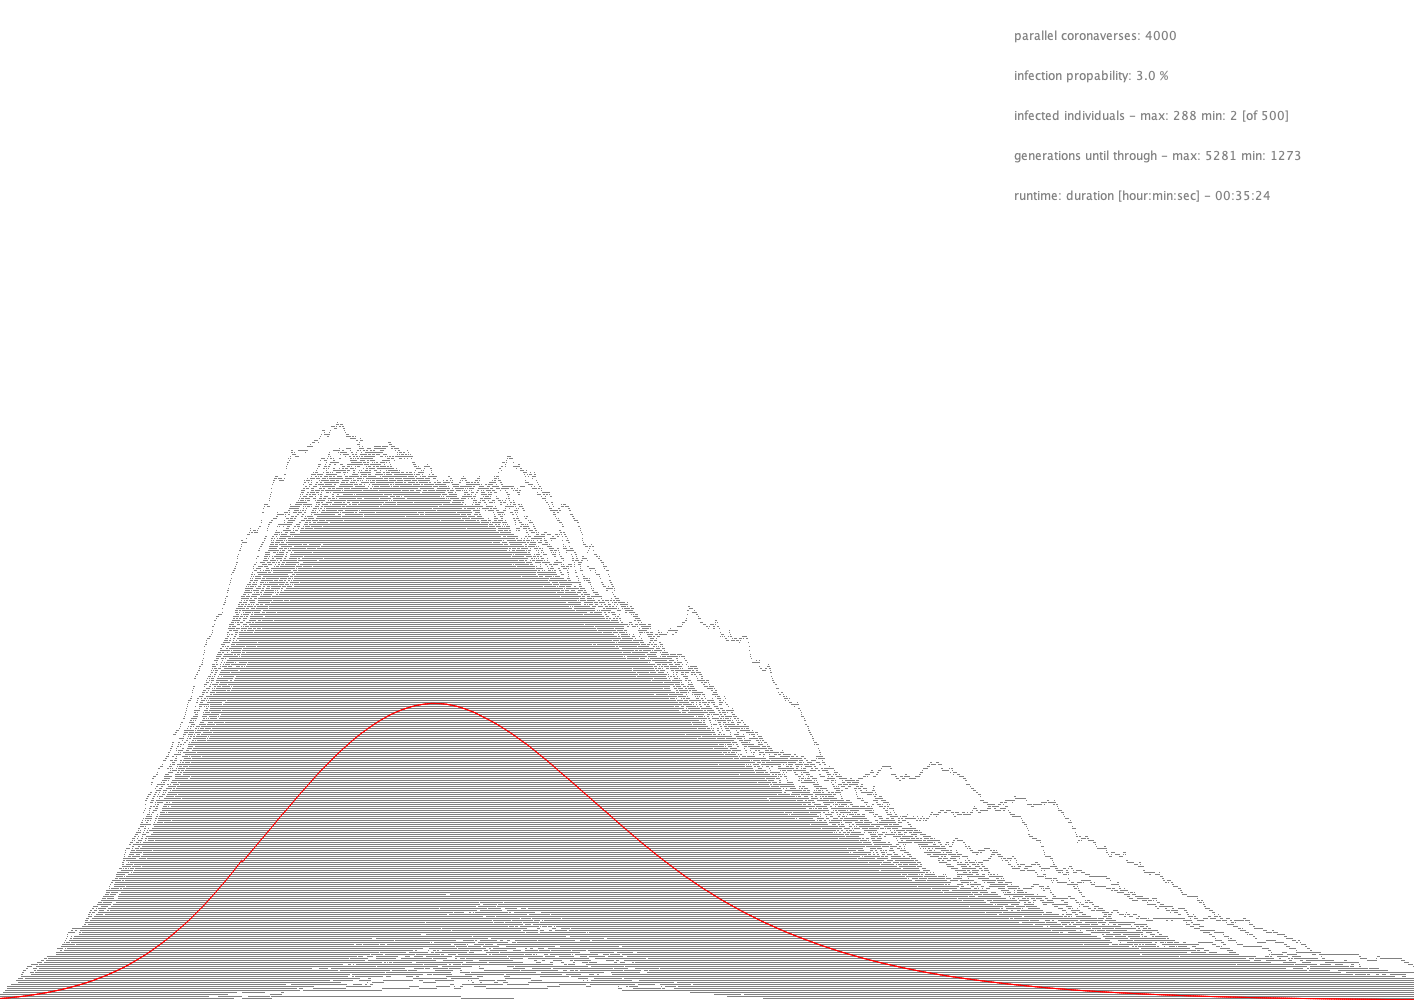
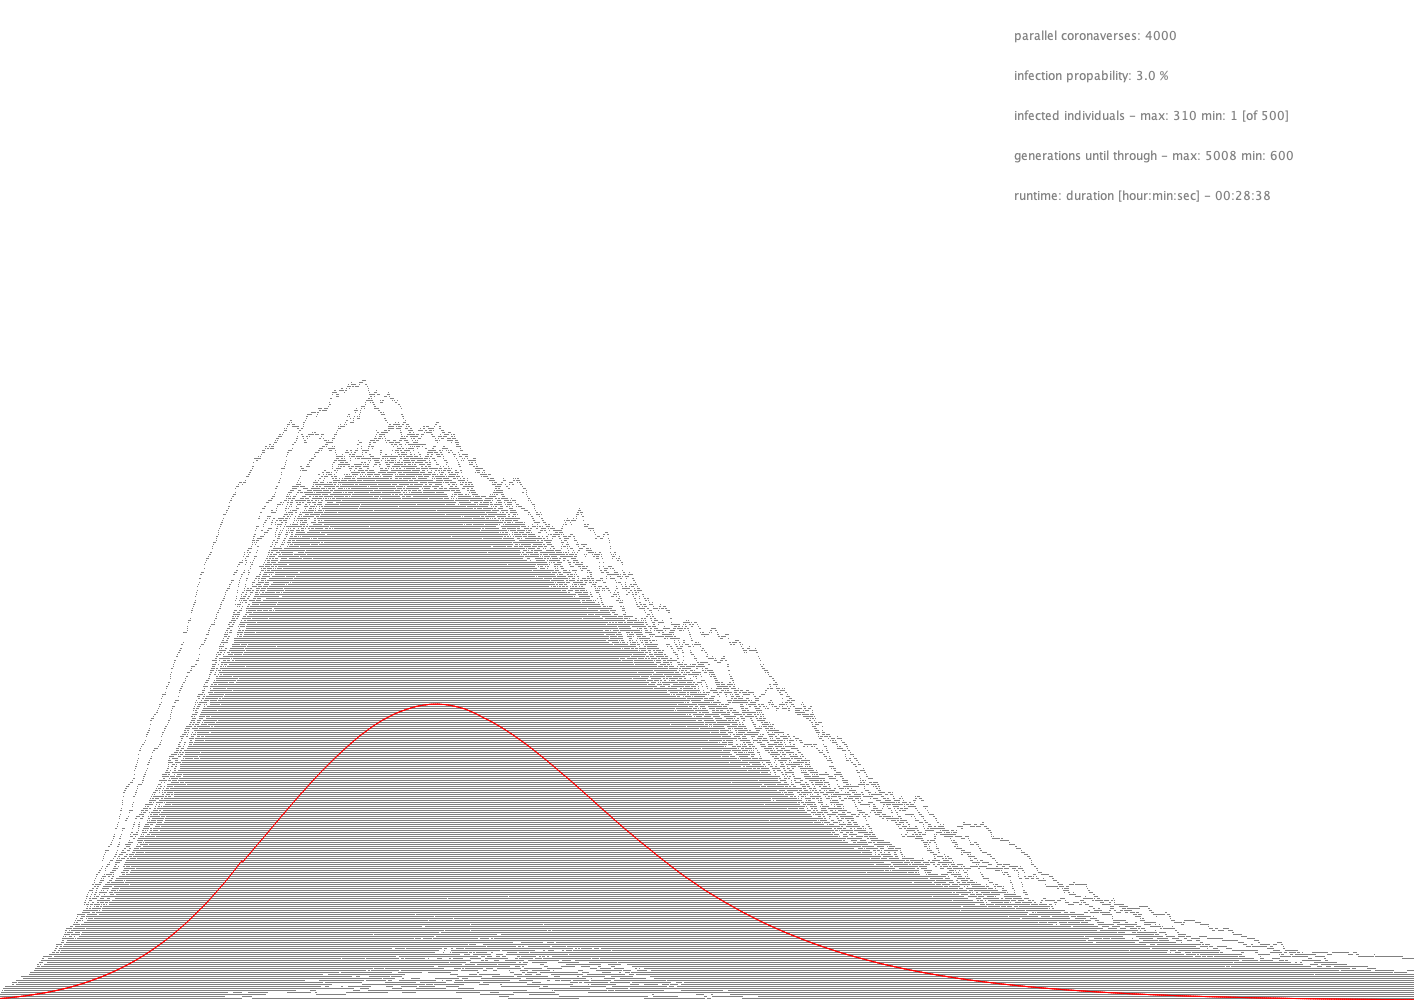
bug fixing

diff --git a/src/CoronaWorld.java b/src/CoronaWorld.java
@@ -9,6 +9,7 @@ import java.util.ArrayList;
 
 public class CoronaWorld extends JPanel implements IRunner {
 
+
     private ArrayList<Individual> individuals = new ArrayList();
 
     public ArrayList<Distribution> getDistributions() {
@@ -22,17 +23,15 @@ public class CoronaWorld extends JPanel implements IRunner {
     private long running = 0;
     private Thread thread;
     private int generation = 0;
-    private long delay = 0;
     private boolean active = false;
-    private double worldSize = 160;
-    private double delta = worldSize * 0.3;
-    private double delta_2 = delta / 2.0;
-    private double infectionPropability = 1.0;
+    private final double worldSize;
+    private final double infectionPropability;
     private int maxInfected = 0;
 
     /// constructor
-    public CoronaWorld(CoronaPlayGround cpg, double p) {
+    public CoronaWorld(CoronaPlayGround cpg, double ws, double p) {
 
+        worldSize = ws;
         infectionPropability = p;
         coronaPlayGround = cpg;
         setFocusable(true);
@@ -337,14 +336,11 @@ public class CoronaWorld extends JPanel implements IRunner {
         generation++;
         for (Individual ind : individuals) {
 
-//            double dx = Math.random() * delta - delta_2;
-//            double dy = Math.random() * delta - delta_2;
+            double dx = Math.random() * CoronaPlayGround.delta - CoronaPlayGround.delta_2;
+            double dy = Math.random() * CoronaPlayGround.delta - CoronaPlayGround.delta_2;
 
-            double dx = CoronaPlayGround.getNextRandom() * delta - delta_2;
-            double dy = CoronaPlayGround.getNextRandom() * delta - delta_2;
-
-            ind.box.x += dx;
-            ind.box.y += dy;
+            ind.box.x += dx;//CoronaPlayGround.getNextRandom();
+            ind.box.y += dy;//CoronaPlayGround.getNextRandom();
 
             if (ind.box.x > worldSize) {
                 ind.box.x = 0;
@@ -367,6 +363,8 @@ public class CoronaWorld extends JPanel implements IRunner {
             Individual ind1 = individuals.get(i);
             for (int j = i + 1; j < individuals.size(); j++) {
                 Individual ind2 = individuals.get(j);
+                if (ind2.isImmune()) continue;
+                if (!ind1.isInfected()) continue;
                 infect(ind1, ind2);
             }
         }
@@ -380,12 +378,6 @@ public class CoronaWorld extends JPanel implements IRunner {
 
     private void infect(Individual ind1, Individual ind2) {
 
-        if (ind2.isImmune()) {
-            return;
-        }
-        if (!ind1.isInfected()) {
-            return;
-        }
         if (!ind1.box.contains(ind2.box.x, ind2.box.y)) {
             return;
         }
@@ -393,10 +385,6 @@ public class CoronaWorld extends JPanel implements IRunner {
             return;
         }
         ind2.incInfectedTime();
-    }
-
-    public void setWorldSize(double ws) {
-        worldSize = ws;
     }
 
     public int getMaxInfected() {

diff --git a/src/CoronaPlayGround.java b/src/CoronaPlayGround.java
@@ -7,7 +7,7 @@ import java.awt.*;
 import java.util.ArrayList;
 import java.util.Calendar;
 
-public class CoronaPlayGround extends JPanel {
+public class CoronaPlayGround extends JPanel  {
 
     private static int numberCoronaWorlds = 1;
     private final Grapher grapher;
@@ -16,13 +16,17 @@ public class CoronaPlayGround extends JPanel {
     private int doneCounter = 0;
     private long startTime;
 
+    final static double worldSize = 160;
+    final static double delta = worldSize * 0.3;
+    final static double delta_2 = delta / 2.0;
+
     private final static int randomLimit = 100000;
     private final static double[] randomList = new double[randomLimit];
     private static int randomCounter = 0;
 
     private void initRandom() {
         for (int i = 0; i < randomList.length; i++) {
-            randomList[i] = Math.random();
+            randomList[i] = Math.random() * delta - delta_2;
         }
     }
 
@@ -56,7 +60,7 @@ public class CoronaPlayGround extends JPanel {
 //        });
 
         for (int i = 0; i < numberCoronaWorlds; i++) {
-            coronaWorlds.add(new CoronaWorld(this, infectionProbability));
+            coronaWorlds.add(new CoronaWorld(this, worldSize, infectionProbability));
         }
         setLayout(new GridLayout(1, 2));
         JPanel simu = new JPanel();
@@ -174,7 +178,7 @@ public class CoronaPlayGround extends JPanel {
                 numberCoronaWorlds,
                 timeString);
         grapher.saveImage(numberCoronaWorlds + "_" + infectionProbability + "_corona_simu.png");
-        grapher.createHistogramImage(infectionProbability + "_corona_simu_histogram.png");
+        grapher.createHistogramImage(numberCoronaWorlds + "_" + infectionProbability + "_corona_simu_histogram.png");
         repaint();
     }
 
@@ -182,7 +186,7 @@ public class CoronaPlayGround extends JPanel {
     public static void main(String[] args) {
 
         numberCoronaWorlds = 4000;
-        infectionProbability = 0.06;
+        infectionProbability = 0.04;
         CoronaPlayGround cpg = new CoronaPlayGround();
 
         MFrame f = new MFrame();
